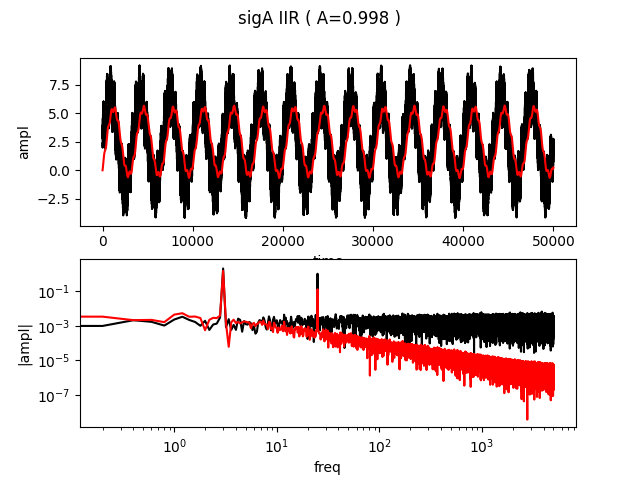
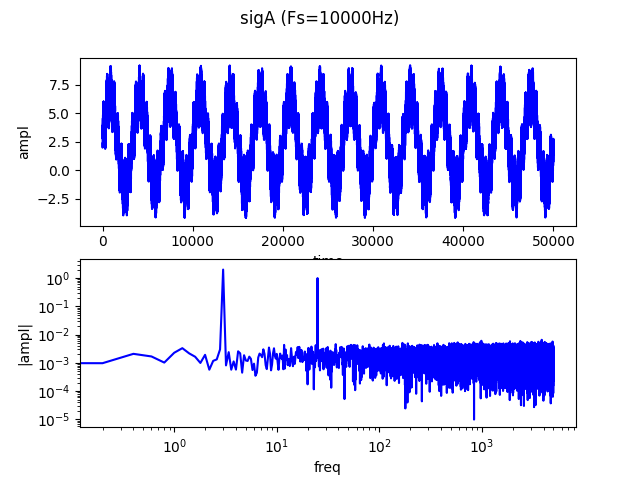
[hw9-dsp] fixed IIR not plotting fft output; added FIR driver

diff --git a/hw9-dsp/fir_coefs.py b/hw9-dsp/fir_coefs.py
@@ -1,0 +1,148 @@
+
+des_A = "type rectangular, cutoff 100 Hz, transition BW 100 Hz"
+hA = [
+    0.001867519746044820,
+    0.002275293677911463,
+    0.002692845467883248,
+    0.003119400211540369,
+    0.003554151391578438,
+    0.003996262853518041,
+    0.004444870878876082,
+    0.004899086349965267,
+    0.005357997000181999,
+    0.005820669743355830,
+    0.006286153075466025,
+    0.006753479541784039,
+    0.007221668262275161,
+    0.007689727507889525,
+    0.008156657320192493,
+    0.008621452166627776,
+    0.009083103623574271,
+    0.009540603079249766,
+    0.009992944448431896,
+    0.010439126890909214,
+    0.010878157525543523,
+    0.011309054131818317,
+    0.011730847830767882,
+    0.012142585737226980,
+    0.012543333575412086,
+    0.012932178249941664,
+    0.013308230364524597,
+    0.013670626680692492,
+    0.014018532509122373,
+    0.014351144026291085,
+    0.014667690509420725,
+    0.014967436482914990,
+    0.015249683769748768,
+    0.015513773441556675,
+    0.015759087661469738,
+    0.015985051414072162,
+    0.016191134117190663,
+    0.016376851110586923,
+    0.016541765016997088,
+    0.016685486971350718,
+    0.016807677714403370,
+    0.016908048547430839,
+    0.016986362145057821,
+    0.017042433223728004,
+    0.017076129063764694,
+    0.017087369883420026,
+    0.017076129063764694,
+    0.017042433223728004,
+    0.016986362145057821,
+    0.016908048547430839,
+    0.016807677714403370,
+    0.016685486971350718,
+    0.016541765016997088,
+    0.016376851110586923,
+    0.016191134117190663,
+    0.015985051414072162,
+    0.015759087661469738,
+    0.015513773441556675,
+    0.015249683769748768,
+    0.014967436482914990,
+    0.014667690509420725,
+    0.014351144026291085,
+    0.014018532509122373,
+    0.013670626680692492,
+    0.013308230364524597,
+    0.012932178249941664,
+    0.012543333575412086,
+    0.012142585737226980,
+    0.011730847830767882,
+    0.011309054131818317,
+    0.010878157525543523,
+    0.010439126890909214,
+    0.009992944448431896,
+    0.009540603079249766,
+    0.009083103623574271,
+    0.008621452166627776,
+    0.008156657320192493,
+    0.007689727507889525,
+    0.007221668262275161,
+    0.006753479541784039,
+    0.006286153075466025,
+    0.005820669743355830,
+    0.005357997000181999,
+    0.004899086349965267,
+    0.004444870878876082,
+    0.003996262853518041,
+    0.003554151391578438,
+    0.003119400211540369,
+    0.002692845467883248,
+    0.002275293677911463,
+    0.001867519746044820,
+]
+
+des_B =""
+hB = []
+
+des_C = ""
+hC = []
+
+des_D = "type Blackmanm, cutoff 10Hz, transition BW 50Hz"
+hD = [
+    0.003406212229674561,
+    0.004615070664811991,
+    0.007608634521169020,
+    0.012659850008542091,
+    0.019798608584983383,
+    0.028784787004261951,
+    0.039116212018982140,
+    0.050071944217781210,
+    0.060786348627844503,
+    0.070345019112866947,
+    0.077890394025478593,
+    0.082723325067391634,
+    0.084387187832423882,
+    0.082723325067391634,
+    0.077890394025478607,
+    0.070345019112866961,
+    0.060786348627844530,
+    0.050071944217781210,
+    0.039116212018982154,
+    0.028784787004261965,
+    0.019798608584983383,
+    0.012659850008542096,
+    0.007608634521169026,
+    0.004615070664811996,
+    0.003406212229674561,
+]
+
+FIR_DES = \
+{
+    "A": des_A,
+    "B": des_B,
+    "C": des_C,
+    "D": des_D
+}
+
+FIR_COEFS = \
+{
+    "A": hA,
+    "B": hB,
+    "C": hC,
+    "D": hD
+}
+
+

diff --git a/hw9-dsp/main.py b/hw9-dsp/main.py
@@ -4,6 +4,7 @@ import matplotlib.pyplot as plt
 import numpy as np
 
 import filter
+from fir_coefs import FIR_DES, FIR_COEFS
 
 # plot amplitudes in time domain
 def plot_td( ts, ds, xlabel="time", ylabel="ampl", title="" ):
@@ -65,7 +66,7 @@ def run_maf(
 
 	maf_fft_out = np.fft.fft( maf_out ) / cnt
 	freqs = np.arange( cnt ) / tmax
-	maf_fft_out = fft_out[ range( cnt // 2 ) ]
+	maf_fft_out = maf_fft_out[ range( cnt // 2 ) ]
 	freqs = freqs[ range( cnt // 2 ) ]
 
 	#plot_td( ts, maf_out )
@@ -78,7 +79,7 @@ def run_maf(
 
 
 def run_iir(
-	cnt, data, ts, A=0.999,
+	cnt, data, ts, fft_out, A=0.999,
 	figname="iir.png", title=""
 ):
 	iir = filter.IIR( A=A )
@@ -101,7 +102,7 @@ def run_iir(
 
 
 def run_fir(
-	cnt, data, ts, coefs,
+	cnt, data, ts, fft_out, coefs,
 	figname="fir.png", title=""
 ):
 	fir = filter.FIR( coefs=coefs )
@@ -111,15 +112,17 @@ def run_fir(
 		fir.add_sample( data[ i ] )
 		fir_out[ i ] = fir.get_avg()
 
-	fft_out = np.fft.fft( fir_out ) / cnt
+	fir_fft_out = np.fft.fft( fir_out ) / cnt
 	freqs = np.arange( cnt ) / tmax
-	fft_out = fft_out[ range( cnt // 2 ) ]
+	fir_fft_out = fir_fft_out[ range( cnt // 2 ) ]
 	freqs = freqs[ range( cnt // 2 ) ]
 
-	plot_td_fd(
-		ts, data, freqs, fft_out,
+	plot_td_fd_cmp(
+		ts, data, fir_out,
+		freqs, fft_out, fir_fft_out,
 		figname=figname, title=title
 	)
+
 
 MAF_TAPS = \
 {
@@ -137,38 +140,10 @@ IIR_A = \
 	"D": 0.95
 }
 
-# sampling rate 400Hz, cutoff 10Hz, transition BW 50Hz
-coefs_D = [
-    0.003406212229674561,
-    0.004615070664811991,
-    0.007608634521169020,
-    0.012659850008542091,
-    0.019798608584983383,
-    0.028784787004261951,
-    0.039116212018982140,
-    0.050071944217781210,
-    0.060786348627844503,
-    0.070345019112866947,
-    0.077890394025478593,
-    0.082723325067391634,
-    0.084387187832423882,
-    0.082723325067391634,
-    0.077890394025478607,
-    0.070345019112866961,
-    0.060786348627844530,
-    0.050071944217781210,
-    0.039116212018982154,
-    0.028784787004261965,
-    0.019798608584983383,
-    0.012659850008542096,
-    0.007608634521169026,
-    0.004615070664811996,
-    0.003406212229674561,
-]
 
 if __name__ == "__main__":
 
-	tag = "D"
+	tag = "A"
 	sig_name = f"sig{ tag }" 
 	filename = f"{ sig_name }.csv"
 
@@ -204,10 +179,16 @@ if __name__ == "__main__":
 	maf_figname = f"{ sig_name }_maf.png"
 	maf_title=f"{ sig_name } MAF ( tap={ maf_tap } )"
 	maf_title
-	#run_maf( cnt, data, ts, fft_out, tap=maf_tap, figname=maf_figname, title=maf_title )
+	run_maf( cnt, data, ts, fft_out, tap=maf_tap, figname=maf_figname, title=maf_title )
 
 	iir_A = IIR_A[ tag ]
 	iir_figname = f"{ sig_name }_iir.png"
 	iir_title=f"{ sig_name } IIR ( A={ iir_A } )"
-	run_iir( cnt, data, ts, A=iir_A, figname=iir_figname, title=iir_title )
+	run_iir( cnt, data, ts, fft_out, A=iir_A, figname=iir_figname, title=iir_title )
+
+	fir_coefs = FIR_COEFS[ tag ]
+	fir_figname = f"{ sig_name }_fir.png"
+	fir_des = FIR_DES[ tag ]
+	fir_title=f"{ sig_name } FIR ( { fir_des } )"
+	run_fir( cnt, data, ts, fft_out, coefs=fir_coefs, figname=fir_figname, title=fir_title )
 
